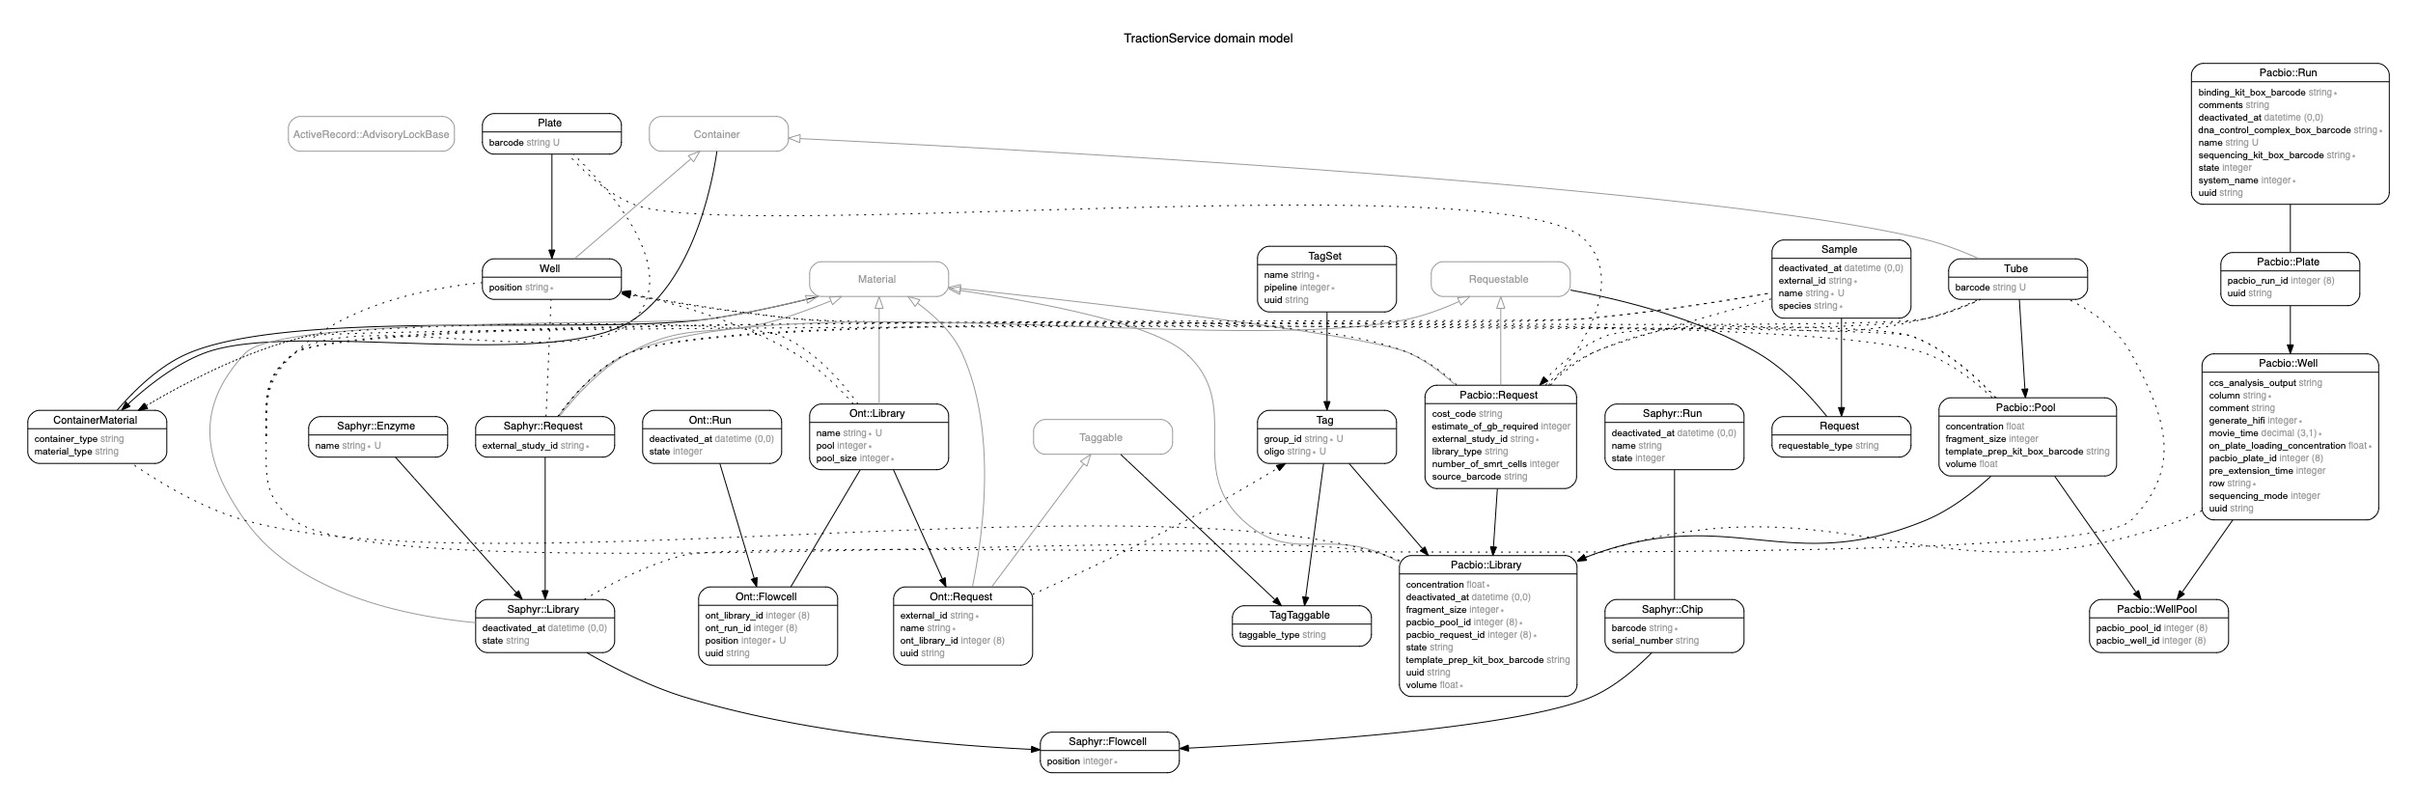
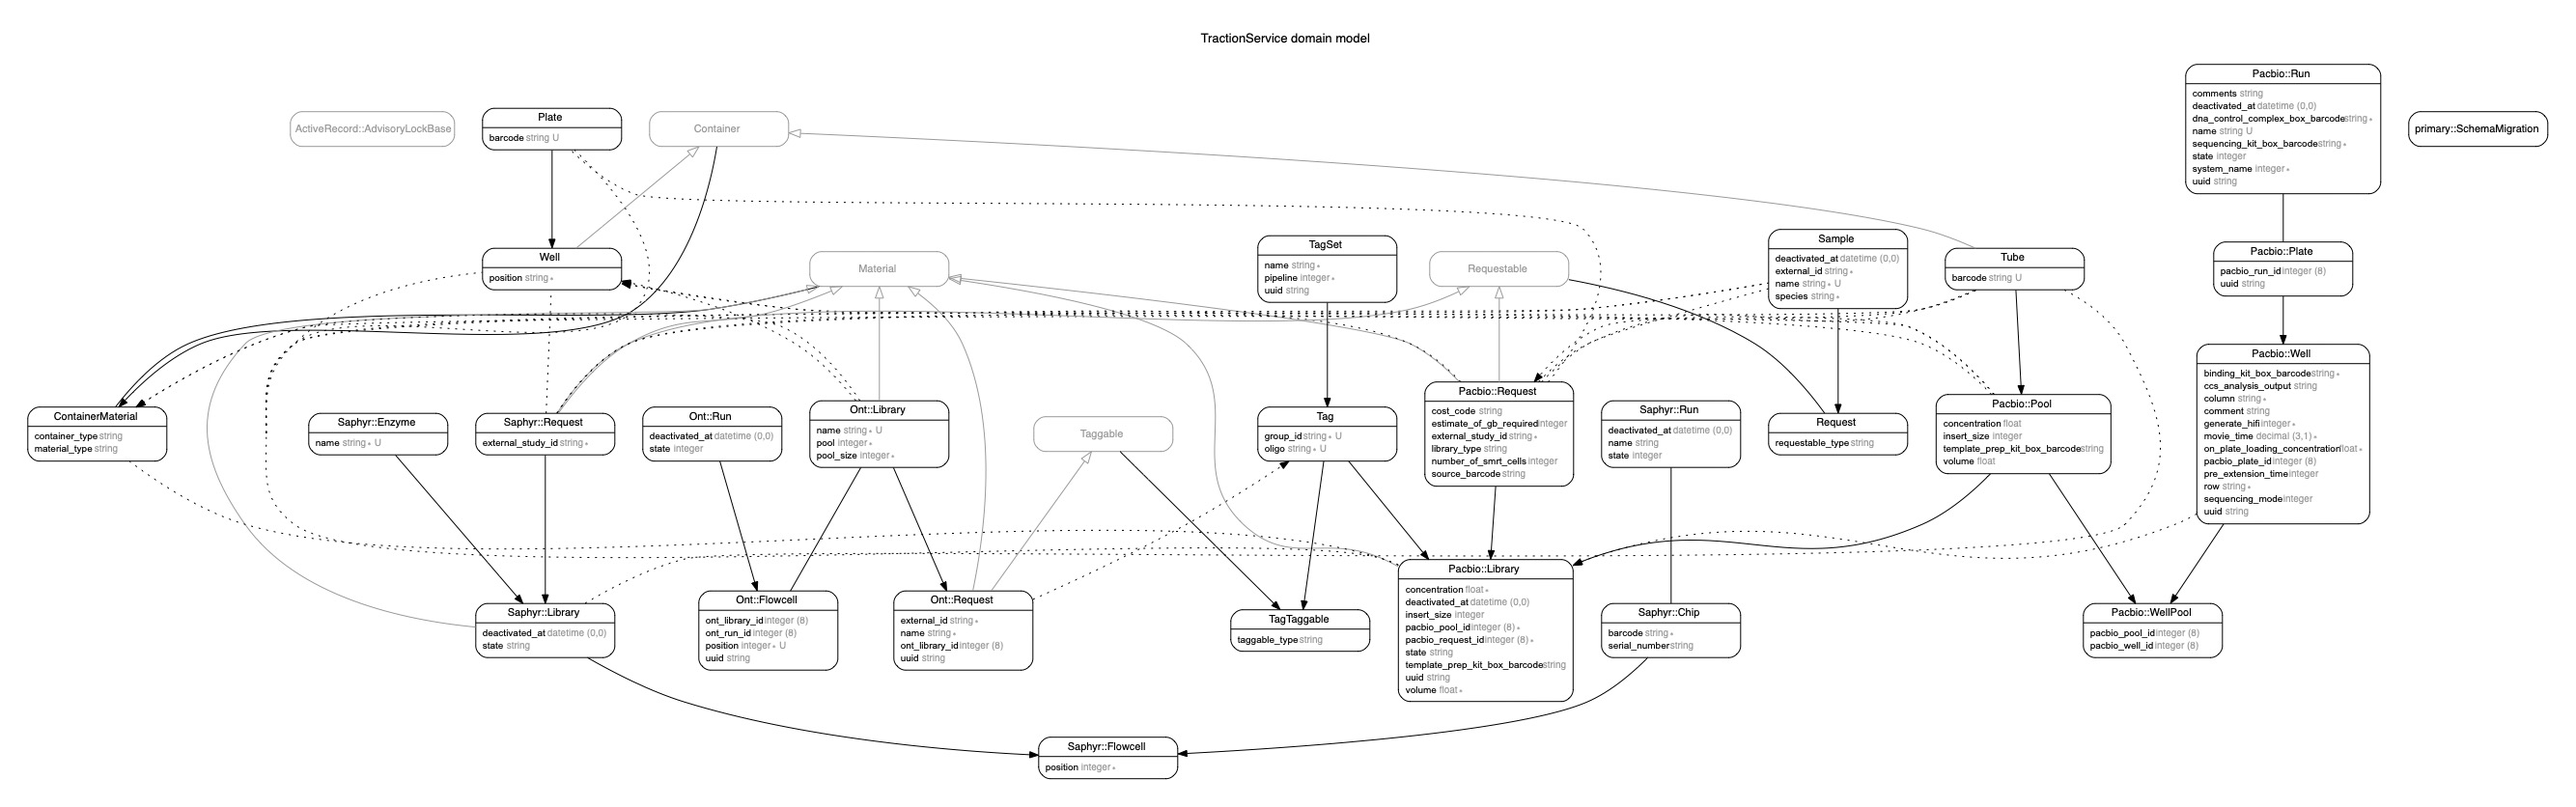
Changed fragment_size to insert_size for pools and libraries for pacbio.

diff --git a/spec/requests/v1/pacbio/pools_spec.rb b/spec/requests/v1/pacbio/pools_spec.rb
@@ -31,7 +31,7 @@ RSpec.describe 'PoolsController', type: :request, pacbio: true do
       expect(pool_resource['volume']).to eq(pool.volume)
       expect(pool_resource['concentration']).to eq(pool.concentration)
       expect(pool_resource['template_prep_kit_box_barcode']).to eq(pool.template_prep_kit_box_barcode)
-      expect(pool_resource['fragment_size']).to eq(pool.fragment_size)
+      expect(pool_resource['insert_size']).to eq(pool.insert_size)
     end
 
     it 'returns the correct attributes', aggregate_failures: true do
@@ -46,7 +46,7 @@ RSpec.describe 'PoolsController', type: :request, pacbio: true do
       expect(library_attributes['volume']).to eq(library.volume)
       expect(library_attributes['concentration']).to eq(library.concentration)
       expect(library_attributes['template_prep_kit_box_barcode']).to eq(library.template_prep_kit_box_barcode)
-      expect(library_attributes['fragment_size']).to eq(library.fragment_size)
+      expect(library_attributes['insert_size']).to eq(library.insert_size)
     end
 
   end
@@ -62,13 +62,13 @@ RSpec.describe 'PoolsController', type: :request, pacbio: true do
                 template_prep_kit_box_barcode: 'LK1234567',
                 volume: 1.11,
                 concentration: 2.22,
-                fragment_size: 100,
+                insert_size: 100,
                 library_attributes: [
                   {
                     volume: 1.11,
                     template_prep_kit_box_barcode: 'LK1234567',
                     concentration: 2.22,
-                    fragment_size: 100,
+                    insert_size: 100,
                     pacbio_request_id: request.id,
                     tag_id: tag.id
                   }
@@ -148,7 +148,7 @@ RSpec.describe 'PoolsController', type: :request, pacbio: true do
                     template_prep_kit_box_barcode: 'LK1234567',
                     volume: 1.11,
                     concentration: 2.22,
-                    fragment_size: 100,
+                    insert_size: 100,
                     pacbio_request_id: request.id,
                     tag_id: tag.id
                   },
@@ -156,7 +156,7 @@ RSpec.describe 'PoolsController', type: :request, pacbio: true do
                     template_prep_kit_box_barcode: 'LK1234567',
                     volume: 1.11,
                     concentration: 2.22,
-                    fragment_size: 100,
+                    insert_size: 100,
                     pacbio_request_id: request2.id,
                     tag_id: tag2.id
                   }
@@ -191,7 +191,7 @@ RSpec.describe 'PoolsController', type: :request, pacbio: true do
                       template_prep_kit_box_barcode: 'LK1234567',
                       volume: 1.11,
                       concentration: 2.22,
-                      fragment_size: 100,
+                      insert_size: 100,
                       pacbio_request_id: request.id,
                       tag_id: tag.id
                     },
@@ -199,7 +199,7 @@ RSpec.describe 'PoolsController', type: :request, pacbio: true do
                       template_prep_kit_box_barcode: 'LK1234567',
                       volume: 1.11,
                       concentration: 2.22,
-                      fragment_size: 100,
+                      insert_size: 100,
                       pacbio_request_id: request2.id,
                       tag_id: tag.id
                     }
@@ -253,7 +253,7 @@ RSpec.describe 'PoolsController', type: :request, pacbio: true do
                     tag_id: tag.id,
                     volume: 1,
                     concentration: 1,
-                    fragment_size: 100
+                    insert_size: 100
                   },
                   {
                     pacbio_request_id: added_request.id.to_s,
@@ -261,13 +261,13 @@ RSpec.describe 'PoolsController', type: :request, pacbio: true do
                     tag_id: tag2.id,
                     volume: 1,
                     concentration: 1,
-                    fragment_size: 100
+                    insert_size: 100
                   }
                 ],
                 volume: '200',
                 concentration: '22',
                 template_prep_kit_box_barcode: '100',
-                fragment_size: '11',
+                insert_size: '11',
                 created_at: '2021-08-04T14:35:47.208Z',
                 updated_at: '2021-08-04T14:35:47.208Z'
               }
@@ -319,7 +319,7 @@ RSpec.describe 'PoolsController', type: :request, pacbio: true do
                       tag_id: tag.id,
                       volume: 1,
                       concentration: 1,
-                      fragment_size: 100
+                      insert_size: 100
                     },
                     {
                       pacbio_request_id: added_request.id.to_s,
@@ -327,13 +327,13 @@ RSpec.describe 'PoolsController', type: :request, pacbio: true do
                       tag_id: tag.id,
                       volume: 1,
                       concentration: 1,
-                      fragment_size: 100
+                      insert_size: 100
                     }
                   ],
                   volume: '200',
                   concentration: '22',
                   template_prep_kit_box_barcode: '100',
-                  fragment_size: '11',
+                  insert_size: '11',
                   created_at: '2021-08-04T14:35:47.208Z',
                   updated_at: '2021-08-04T14:35:47.208Z'
                 }

diff --git a/spec/requests/v1/pacbio/libraries_spec.rb b/spec/requests/v1/pacbio/libraries_spec.rb
@@ -24,7 +24,7 @@ RSpec.describe 'LibrariesController', type: :request, pacbio: true do
           expect(library_attributes['volume']).to eq(library.volume)
           expect(library_attributes['concentration']).to eq(library.concentration)
           expect(library_attributes['template_prep_kit_box_barcode']).to eq(library.template_prep_kit_box_barcode)
-          expect(library_attributes['fragment_size']).to eq(library.fragment_size)
+          expect(library_attributes['insert_size']).to eq(library.insert_size)
           expect(library_attributes['state']).to eq(library.state)
           expect(library_attributes['created_at']).to eq(library.created_at.to_s(:us))
           expect(library_attributes['deactivated_at']).to eq(nil)
@@ -121,7 +121,7 @@ RSpec.describe 'LibrariesController', type: :request, pacbio: true do
                 volume: 1.11,
                 concentration: 2.22,
                 template_prep_kit_box_barcode: 'LK1234567',
-                fragment_size: 100
+                insert_size: 100
               },
               relationships: {
                 request: { data: { type: 'requests', id: request.id } },
@@ -167,7 +167,7 @@ RSpec.describe 'LibrariesController', type: :request, pacbio: true do
                 attributes: {
                   concentration: 2.22,
                   template_prep_kit_box_barcode: 'LK1234567',
-                  fragment_size: 100
+                  insert_size: 100
                 },
                 relationships: {
                   request: { data: { type: 'requests', id: request.id } },
@@ -207,7 +207,7 @@ RSpec.describe 'LibrariesController', type: :request, pacbio: true do
                   volume: 1.11,
                   concentration: 2.22,
                   template_prep_kit_box_barcode: 'LK1234567',
-                  fragment_size: 100
+                  insert_size: 100
                 },
                 relationships: {
                   request: { data: { type: 'requests', id: request_empty_cost_code.id } },

diff --git a/db/schema.rb b/db/schema.rb
@@ -10,7 +10,7 @@
 #
 # It's strongly recommended that you check this file into your version control system.
 
-ActiveRecord::Schema.define(version: 2021_08_05_135643) do
+ActiveRecord::Schema.define(version: 2021_08_06_133747) do
 
   create_table "container_materials", options: "ENGINE=InnoDB DEFAULT CHARSET=utf8", force: :cascade do |t|
     t.string "container_type"
@@ -65,7 +65,7 @@ ActiveRecord::Schema.define(version: 2021_08_05_135643) do
     t.float "volume"
     t.float "concentration"
     t.string "template_prep_kit_box_barcode"
-    t.integer "fragment_size"
+    t.integer "insert_size"
     t.string "uuid"
     t.datetime "created_at", null: false
     t.datetime "updated_at", null: false
@@ -92,7 +92,7 @@ ActiveRecord::Schema.define(version: 2021_08_05_135643) do
     t.float "volume"
     t.float "concentration"
     t.string "template_prep_kit_box_barcode"
-    t.integer "fragment_size"
+    t.integer "insert_size"
     t.datetime "created_at", precision: 6
     t.datetime "updated_at", precision: 6
     t.index ["tube_id"], name: "index_pacbio_pools_on_tube_id"
@@ -141,7 +141,7 @@ ActiveRecord::Schema.define(version: 2021_08_05_135643) do
     t.index ["pacbio_well_id"], name: "index_pacbio_well_libraries_on_pacbio_well_id"
   end
 
-  create_table "pacbio_well_pools", options: "ENGINE=InnoDB DEFAULT CHARSET=utf8mb4", force: :cascade do |t|
+  create_table "pacbio_well_pools", options: "ENGINE=InnoDB DEFAULT CHARSET=utf8", force: :cascade do |t|
     t.bigint "pacbio_well_id"
     t.bigint "pacbio_pool_id"
     t.index ["pacbio_pool_id"], name: "index_pacbio_well_pools_on_pacbio_pool_id"

diff --git a/app/resources/v1/pacbio/container_material_resource.rb b/app/resources/v1/pacbio/container_material_resource.rb
@@ -10,7 +10,7 @@ module V1
       model_name 'ContainerMaterial'
 
       # Library attributes
-      attributes :state, :fragment_size, :volume, :concentration,
+      attributes :state, :insert_size, :volume, :concentration,
                  :template_prep_kit_box_barcode, :deactivated_at, :sample_names
 
       # Request attributes
@@ -23,7 +23,7 @@ module V1
       def fetchable_fields
         case @model.material
         when ::Pacbio::Library
-          %i[state barcode volume concentration template_prep_kit_box_barcode fragment_size
+          %i[state barcode volume concentration template_prep_kit_box_barcode insert_size
              created_at deactivated_at sample_names material_type]
         when ::Pacbio::Request
           %i[library_type estimate_of_gb_required number_of_smrt_cells cost_code external_study_id
@@ -53,7 +53,7 @@ module V1
                :cost_code, :external_study_id,
                :sample_name, :sample_species, :state, :volume,
                :concentration, :template_prep_kit_box_barcode,
-               :fragment_size, :sample_names, to: :material
+               :insert_size, :sample_names, to: :material
 
       # TODO: Moved here as dropped it from library, but this should probably become sample name.
       #      But overall, not really convinced this model should be exposed via the API.

diff --git a/spec/models/pacbio/library_factory_spec.rb b/spec/models/pacbio/library_factory_spec.rb
@@ -26,7 +26,7 @@ RSpec.describe Pacbio::LibraryFactory, type: :model, pacbio: true do
         expect(@pacbio_library.volume).to be_present
         expect(@pacbio_library.concentration).to be_present
         expect(@pacbio_library.template_prep_kit_box_barcode).to be_present
-        expect(@pacbio_library.fragment_size).to be_present
+        expect(@pacbio_library.insert_size).to be_present
         expect(@pacbio_library.id).to be_nil
         expect(@pacbio_library.created_at).to be_nil
         expect(@pacbio_library.updated_at).to be_nil
@@ -39,7 +39,7 @@ RSpec.describe Pacbio::LibraryFactory, type: :model, pacbio: true do
         expect(@pacbio_library.pool.volume).to eq @pacbio_library.volume
         expect(@pacbio_library.pool.concentration).to eq @pacbio_library.concentration
         expect(@pacbio_library.pool.template_prep_kit_box_barcode).to eq @pacbio_library.template_prep_kit_box_barcode
-        expect(@pacbio_library.pool.fragment_size).to eq @pacbio_library.fragment_size
+        expect(@pacbio_library.pool.insert_size).to eq @pacbio_library.insert_size
       end
     end
 

diff --git a/app/controllers/v1/pacbio/libraries_controller.rb b/app/controllers/v1/pacbio/libraries_controller.rb
@@ -43,7 +43,7 @@ module V1
       def attributes
         params.require(:data).require(:attributes)
               .permit(:volume, :concentration, :template_prep_kit_box_barcode,
-                      :fragment_size, :relationships, :request_id, :tag_id)
+                      :insert_size, :relationships, :request_id, :tag_id)
               .to_h
       end
 
@@ -59,7 +59,7 @@ module V1
       # having to send unneccessary data in body of request
       def library_update_params
         params.require(:data).require(:attributes)
-              .permit(:volume, :concentration, :template_prep_kit_box_barcode, :fragment_size)
+              .permit(:volume, :concentration, :template_prep_kit_box_barcode, :insert_size)
       end
 
       def render_json(status)

diff --git a/app/resources/v1/pacbio/pool_resource.rb b/app/resources/v1/pacbio/pool_resource.rb
@@ -11,14 +11,14 @@ module V1
       has_many :libraries
 
       attributes :volume, :concentration, :template_prep_kit_box_barcode,
-                 :fragment_size, :created_at, :updated_at,
+                 :insert_size, :created_at, :updated_at,
                  :library_attributes
       attribute :source_identifier, readonly: true
 
       def library_attributes=(library_parameters)
         @model.library_attributes = library_parameters.map do |library|
           library.permit(:id, :volume, :template_prep_kit_box_barcode,
-                         :concentration, :fragment_size, :pacbio_request_id, :tag_id)
+                         :concentration, :insert_size, :pacbio_request_id, :tag_id)
         end
       end
 

diff --git a/app/models/pacbio/library_factory.rb b/app/models/pacbio/library_factory.rb
@@ -26,7 +26,7 @@ module Pacbio
                                **library_attributes.slice(:volume,
                                                           :concentration,
                                                           :template_prep_kit_box_barcode,
-                                                          :fragment_size))
+                                                          :insert_size))
       @container_material = ContainerMaterial.new(container: @tube, material: library)
     end
 

diff --git a/spec/models/pacbio/library_spec.rb b/spec/models/pacbio/library_spec.rb
@@ -20,8 +20,8 @@ RSpec.describe Pacbio::Library, type: :model, pacbio: true do
     expect(create(:pacbio_library).template_prep_kit_box_barcode).to be_present
   end
 
-  it 'must have a fragment size' do
-    expect(build(:pacbio_library, fragment_size: nil)).to_not be_valid
+  it 'must have a insert size' do
+    expect(build(:pacbio_library, insert_size: nil)).to_not be_valid
   end
 
   it 'can have a request' do

diff --git a/app/resources/v1/pacbio/library_resource.rb b/app/resources/v1/pacbio/library_resource.rb
@@ -7,7 +7,7 @@ module V1
       model_name 'Pacbio::Library'
 
       attributes :state, :volume, :concentration, :template_prep_kit_box_barcode,
-                 :fragment_size, :created_at, :deactivated_at, :source_identifier
+                 :insert_size, :created_at, :deactivated_at, :source_identifier
 
       has_one :request, always_include_optional_linkage_data: true
       has_one :tube

diff --git a/spec/models/pacbio/pool_spec.rb b/spec/models/pacbio/pool_spec.rb
@@ -30,9 +30,9 @@ RSpec.describe Pacbio::Pool, type: :model, pacbio: true do
     expect(pool.concentration).to be_present
   end
 
-  it 'can have a fragment size' do
+  it 'can have a insert size' do
     pool = build(:pacbio_pool)
-    expect(pool.fragment_size).to be_present
+    expect(pool.insert_size).to be_present
   end
 
   it 'is not valid unless there is at least one library' do

diff --git a/spec/models/pacbio/well_spec.rb b/spec/models/pacbio/well_spec.rb
@@ -41,7 +41,7 @@ RSpec.describe Pacbio::Well, type: :model, pacbio: true do
     let(:well)      { create(:pacbio_well, pools: pools) }
 
     it 'gest the fragment size of the first pool in the well' do
-      expect(well.pools[0].fragment_size).to eq(well.insert_size)
+      expect(well.pools[0].insert_size).to eq(well.insert_size)
     end
   end
 
